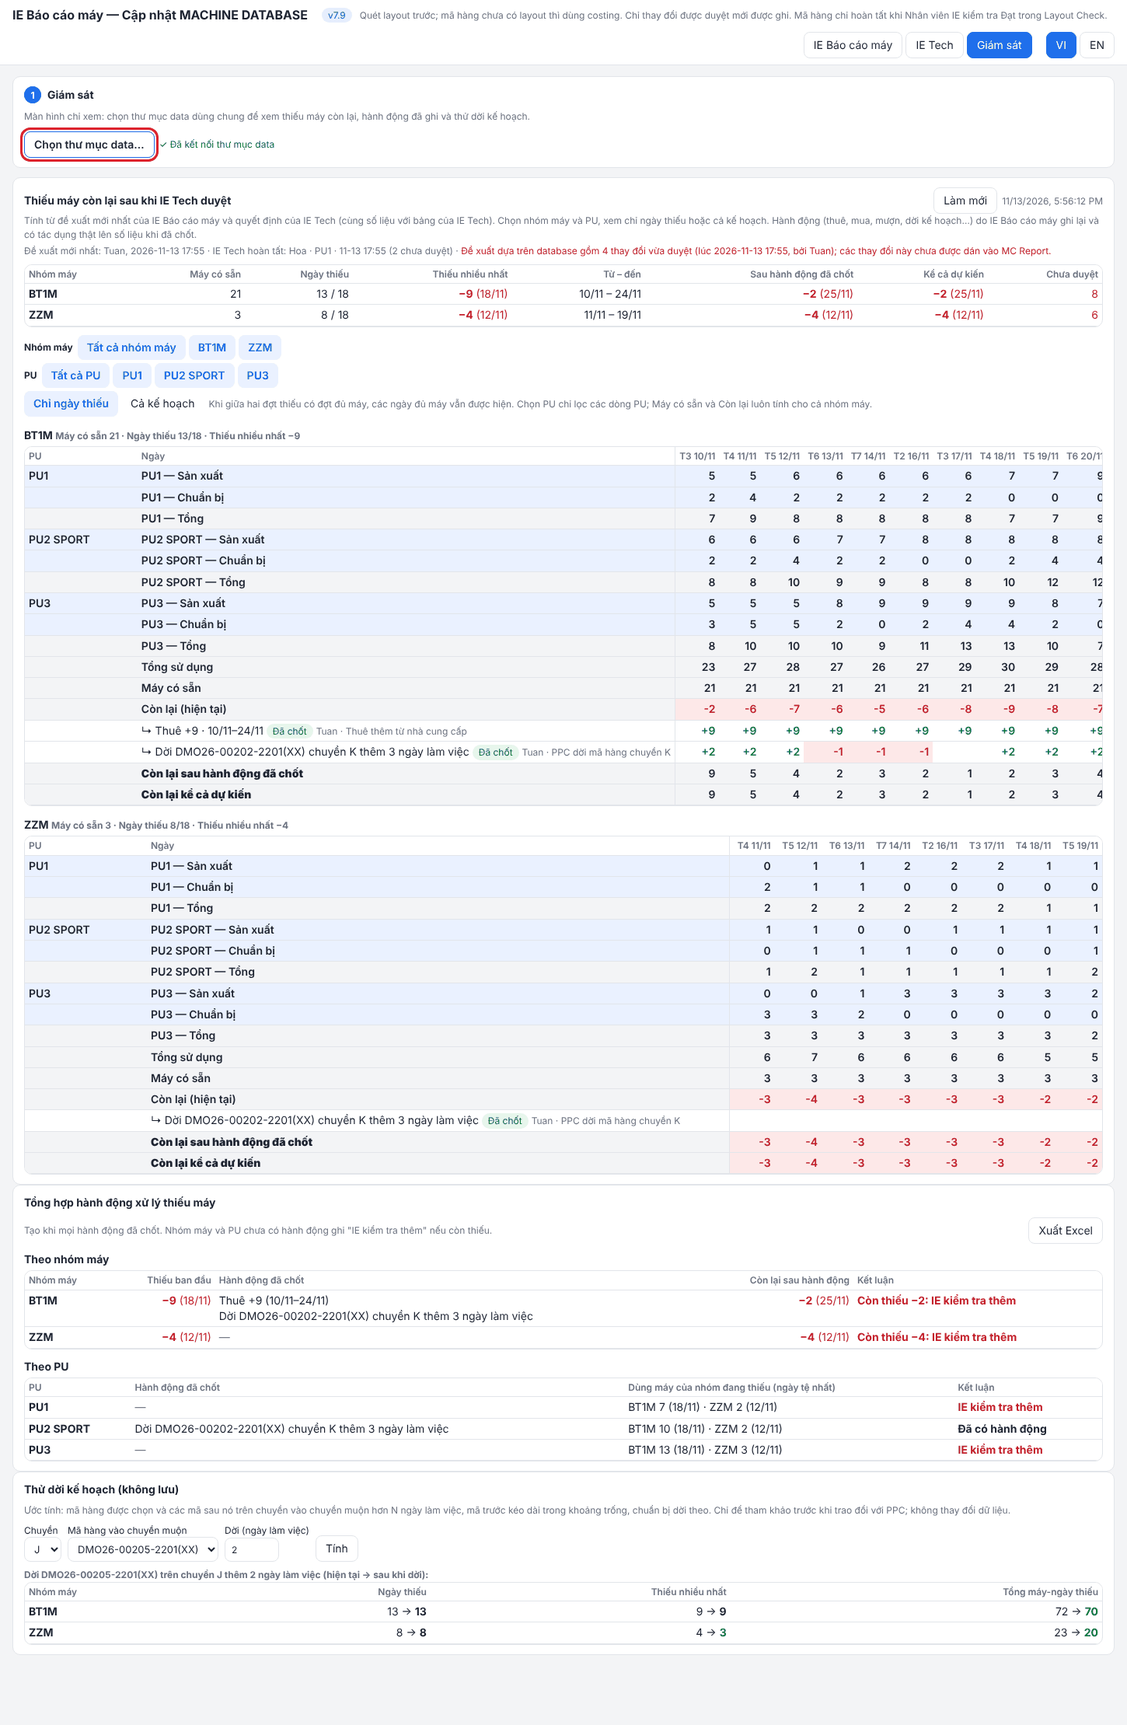
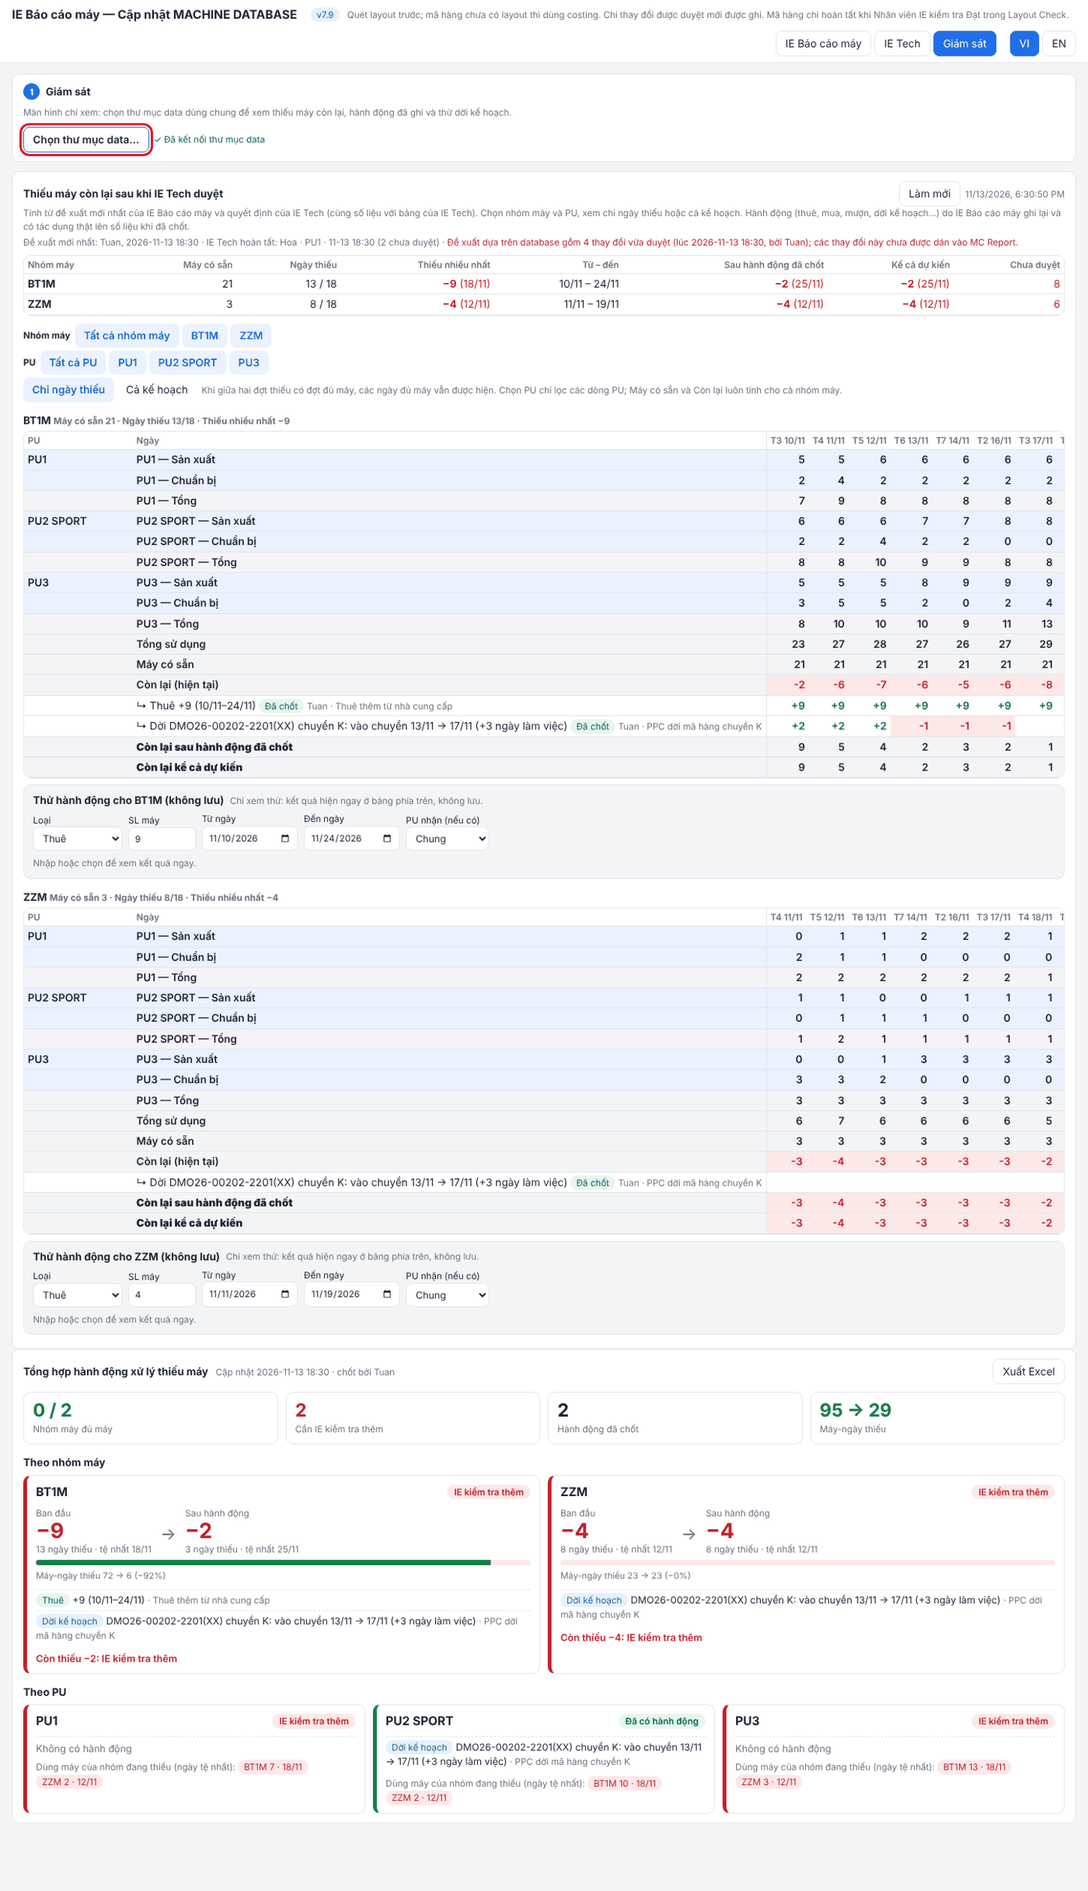
Manual: residual shortage section for per-group action panels, instant preview, date move of whole line, new summary card; retake screenshots
Claude-Session: https://claude.ai/code/session_01HSftGR9hCu1zeXPheTRhmb

diff --git a/manual/ie-bao-cao-may.html b/manual/ie-bao-cao-may.html
@@ -31,7 +31,7 @@
 <tr><td><b>Dữ liệu</b></td><td>Chọn MC Report, Master plan, thư mục layout, thư mục <code>data</code> của Layout Check, nhập họ tên. Có dấu ✓ khi đã nạp đủ.</td></tr>
 <tr><td><b>Cập nhật CSDL</b></td><td>Quét layout, duyệt thay đổi, <b>Lưu MACHINE DATABASE</b> (thanh lưu chỉ hiện ở tab này). Số trên tab = mục cần duyệt.</td></tr>
 <tr><td><b>Thiếu máy &amp; chuẩn bị</b></td><td>Xếp hạng nguy cơ thiếu máy, chi tiết theo ngày, gửi IE Tech duyệt, chốt báo cáo, xuất Excel.</td></tr>
-<tr><td><b>Thiếu máy còn lại</b></td><td>Máy còn thiếu sau khi IE Tech duyệt (bảng ngang, chọn nhóm máy/PU), hành động xử lý (thuê, mua, mượn, dời kế hoạch) có tác dụng thật lên số liệu, thẻ tổng hợp và thử dời kế hoạch (mục 6).</td></tr>
+<tr><td><b>Thiếu máy còn lại</b></td><td>Máy còn thiếu sau khi IE Tech duyệt (bảng ngang, chọn nhóm máy/PU), hành động xử lý (thuê, mua, mượn, dời kế hoạch) ghi ngay dưới bảng của từng nhóm máy thiếu, thấy kết quả tức thì, và thẻ tổng hợp (mục 6).</td></tr>
 <tr><td><b>Báo sai lệch</b></td><td>Thông báo của IE Tech. Số trên tab = thông báo chưa xử lý.</td></tr>
 <tr><td><b>Nhật ký</b></td><td>Lịch sử thao tác chuẩn bị máy theo loại máy và theo chuyền.</td></tr></table>
 <p>Góc trên bên phải có ba nút <b>vai trò</b> (<b>IE Báo cáo máy</b> / <b>IE Tech</b> / <b>Giám sát</b>) và nút ngôn ngữ <b>VI / EN</b>. Vai trò IE Tech chỉ thấy màn hình “Duyệt chuẩn bị” (mục 5); vai trò Giám sát chỉ xem “Thiếu máy còn lại” (mục 6).</p>
@@ -167,7 +167,7 @@
 <div class="note"><b>Quyết định được giữ sang tuần sau</b> khi trình tự mã hàng trên chuyền không đổi (cùng chuyền, mã trước, mã sau, nhóm máy), kể cả khi ngày thay đổi. Nếu số máy của mã sau trong CSDL thay đổi, dòng quay lại “Chờ duyệt”.</div>
 </section>
 
-<section id="resid"><h2>6. Thiếu máy còn lại, hành động và thử dời kế hoạch</h2>
+<section id="resid"><h2>6. Thiếu máy còn lại, hành động</h2>
 <p>Sau khi IE Tech duyệt, nhóm máy nào vẫn còn thiếu thì cần quyết định thuê, mua, mượn hoặc dời kế hoạch với PPC. Màn hình này tập hợp số liệu cho người quyết định (Giám sát) và cho IE Báo cáo máy ghi lại hành động.</p>
 <h3>6.1 Mở màn hình</h3>
 <ul>
@@ -187,27 +187,25 @@
 <tr><td><b>Sau hành động đã chốt</b></td><td>Thiếu còn lại nếu chỉ tính các hành động đã chốt.</td></tr>
 <tr><td><b>Kể cả dự kiến</b></td><td>Thiếu còn lại nếu tính cả hành động dự kiến.</td></tr>
 <tr><td><b>Chưa duyệt</b></td><td>Số dòng chuẩn bị IE Tech chưa duyệt (số liệu có thể còn đổi).</td></tr></table>
-<h3>6.3 Ghi hành động (do IE Báo cáo máy)</h3>
-<p>Biểu mẫu nằm dưới bảng (chỉ có ở IE Báo cáo máy; Giám sát chỉ xem). Nhập <b>Họ tên</b> ở tab Dữ liệu trước. Với thuê / mua / mượn, biểu mẫu tự điền số máy bằng mức thiếu lớn nhất và khoảng ngày thiếu của nhóm máy đang chọn.</p>
-<figure><a href="img/ibm-25-action-form.png"><img src="img/ibm-25-action-form.png" alt="Biểu mẫu hành động" loading="lazy"></a><figcaption>Thuê 9 máy cho BT1M, từ ngày thiếu đầu đến ngày thiếu cuối. Phần <b>Xem trước</b> ở dưới cho biết <b>thay đổi thực tế</b> theo từng ngày nếu chốt hành động này: “Còn lại (đã chốt hiện tại)”, “Thay đổi”, “Còn lại nếu chốt”.</figcaption></figure>
+<h3>6.3 Hành động: mỗi nhóm máy thiếu có khung riêng, kết quả hiện ngay</h3>
+<p>Dưới bảng của <b>mỗi nhóm máy còn thiếu</b> có một khung <b>Hành động cho &lt;nhóm máy&gt;</b>. Chỉ cần chọn loại và nhập số máy hoặc ngày, các dòng <b>“Xem thử”</b> trong bảng phía trên và dòng <b>“Kết quả ngay”</b> (thiếu nhiều nhất và số ngày thiếu, trước &rarr; sau) cập nhật tức thì, chưa lưu gì. Chưa nhập gì thì bảng không có dòng xem thử. Chỉ IE Báo cáo máy có nút <span class="btn">Thêm hành động</span> (nhập <b>Họ tên</b> ở tab Dữ liệu trước); Giám sát vẫn thử được nhưng không lưu được.</p>
+<figure><a href="img/ibm-25-action-form.png"><img src="img/ibm-25-action-form.png" alt="Khung hành động và xem thử" loading="lazy"></a><figcaption>BT1M: thuê 9 máy từ ngày thiếu đầu đến ngày thiếu cuối. Hai dòng “Xem thử: thay đổi” và “Xem thử: còn lại nếu chốt” hiện ngay; dòng “Kết quả ngay” ở cuối khung: thiếu nhiều nhất −9 &rarr; 0, ngày thiếu 13 &rarr; 0.</figcaption></figure>
 <table><tr><th>Loại</th><th>Tác dụng lên số liệu</th></tr>
-<tr><td><b>Thuê</b>, <b>Mua</b>, <b>Mượn</b></td><td>Cộng thêm số máy của nhóm máy đã chọn trong khoảng ngày đã nhập. Có thể ghi <b>PU nhận</b> (không bắt buộc) để thẻ tổng hợp hiện theo PU.</td></tr>
-<tr><td><b>Dời kế hoạch</b></td><td>Chọn <b>chuyền</b>, <b>mã hàng</b> và số <b>ngày làm việc</b>: mã hàng đó và các mã sau nó trên chuyền vào chuyền muộn hơn, mã trước kéo dài trong khoảng trống, chuẩn bị dời theo. Tác dụng thật lên <b>mọi nhóm máy</b> có chuyền đó.</td></tr>
+<tr><td><b>Thuê</b>, <b>Mua</b>, <b>Mượn</b></td><td>Cộng thêm số máy của nhóm máy trong khoảng ngày đã nhập (tự điền theo mức thiếu lớn nhất và khoảng ngày thiếu). Có thể ghi <b>PU nhận</b> (không bắt buộc) để thẻ tổng hợp hiện theo PU.</td></tr>
+<tr><td><b>Dời kế hoạch</b></td><td>Chọn <b>chuyền</b>, <b>mã hàng</b> và <b>ngày vào chuyền mới</b> (ngày chủ nhật tự chuyển sang ngày làm việc; khung ghi “+n ngày làm việc”). <b>Cả chuyền dời theo</b>: mã hàng đó và mọi mã sau nó vào chuyền muộn hơn; mã trước vẫn chạy tiếp; chuẩn bị dời theo. Tác dụng thật lên <b>mọi nhóm máy</b> có chuyền đó; kết quả ngay cho biết các nhóm máy khác bị thay đổi bao nhiêu.</td></tr>
 <tr><td><b>Khác</b></td><td>Ghi chú bắt buộc. Nếu nhập số máy (+ hoặc −) và khoảng ngày thì cộng/trừ máy như trên; nếu không thì chỉ ghi nhận.</td></tr></table>
-<figure><a href="img/ibm-26-delay-preview.png"><img src="img/ibm-26-delay-preview.png" alt="Xem trước dời kế hoạch" loading="lazy"></a><figcaption>Dời kế hoạch: phần xem trước liệt kê từng nhóm máy bị thay đổi, kèm số máy thay đổi theo ngày (xanh = thêm máy, đỏ = thiếu thêm) và tóm tắt “thiếu nhiều nhất a → b, ngày thiếu a → b”.</figcaption></figure>
+<figure><a href="img/ibm-26-delay-preview.png"><img src="img/ibm-26-delay-preview.png" alt="Dời kế hoạch ngay trong khung hành động" loading="lazy"></a><figcaption>Dời kế hoạch nằm trong cùng khung: chọn chuyền, mã hàng, ngày vào chuyền mới. Các dòng xem thử và “Kết quả ngay” cho thấy tác dụng thật lên bảng.</figcaption></figure>
+<div class="warn"><b>Dời kế hoạch có thể không giải quyết được thiếu máy</b> (ví dụ máy dùng nhiều nhất rơi vào ngày khác, hoặc số ngày thiếu tăng vì mã trước chạy lâu hơn). Hãy đọc dòng “Kết quả ngay” (thiếu nhiều nhất và số ngày thiếu) trước khi đề nghị PPC.</div>
 <ul>
 <li><b>Dự kiến</b> = chưa chắc chắn; <b>Đã chốt</b> = đã có máy / PPC đã đồng ý dời. Hai trạng thái được tính ở hai dòng riêng (“sau hành động đã chốt” và “kể cả dự kiến”).</li>
-<li>Mỗi hành động là một hàng trong bảng ngang, hiện <b>số thay đổi thực tế từng ngày</b> của riêng hành động đó. Nút <span class="btn">✎</span> sửa, <span class="btn">✔</span> chốt (Dự kiến &rarr; Đã chốt), <span class="btn">✖</span> hủy (hàng bị gạch, không còn tác dụng).</li>
+<li>Mỗi hành động là một hàng trong bảng ngang, hiện <b>số thay đổi thực tế từng ngày</b>. Nút <span class="btn">✎</span> sửa, <span class="btn">✔</span> chốt (Dự kiến &rarr; Đã chốt), <span class="btn">✖</span> hủy (hàng bị gạch, không còn tác dụng).</li>
+<li><b>Dời kế hoạch đã vào kế hoạch mới:</b> khi MC Report / Master plan mới đã cho mã hàng vào chuyền đúng hoặc sau ngày mới, hành động được gắn nhãn <b>“Đã vào kế hoạch”</b> và <b>không tính nữa</b> (tránh dời hai lần).</li>
 <li>Mỗi lần thay đổi ghi thành một file trong <code>data\prep\actions</code>, đồng thời hiện ở tab <b>Nhật ký</b> (loại “Hành động thiếu máy”).</li></ul>
 <h3>6.4 Thẻ tổng hợp hành động</h3>
-<p>Khi <b>mọi hành động đã được chốt</b> (không còn hành động Dự kiến) và có ít nhất một hành động, màn hình tự tạo thẻ <b>Tổng hợp hành động xử lý thiếu máy</b> gồm hai bảng: <b>theo nhóm máy</b> và <b>theo PU</b>. Nhóm máy hoặc PU không có hành động nào mà vẫn còn thiếu được ghi <b>“IE kiểm tra thêm”</b>; nhóm máy sau hành động vẫn thiếu cũng ghi “Còn thiếu −x: IE kiểm tra thêm”. Nút <span class="btn">Xuất Excel</span> lưu thẻ thành file.</p>
-<figure><a href="img/ibm-27-actions-and-card.png"><img src="img/ibm-27-actions-and-card.png" alt="Bảng ngang có hành động và thẻ tổng hợp" loading="lazy"></a><figcaption>Bảng ngang BT1M có hai hàng hành động (Thuê +9 và Dời kế hoạch) và hai dòng “Còn lại sau hành động”; bên dưới là thẻ tổng hợp theo nhóm máy và theo PU.</figcaption></figure>
-<h3>6.5 Thử dời kế hoạch (không lưu)</h3>
-<p>Dành cho người chỉ xem (Giám sát) hoặc để thử nhanh: chọn <b>Chuyền</b>, <b>Mã hàng vào chuyền muộn</b> và số <b>ngày làm việc</b> rồi bấm <span class="btn">Tính</span>. Kết quả theo từng nhóm máy: số ngày thiếu, thiếu nhiều nhất và tổng máy-ngày thiếu, dạng “hiện tại → sau khi dời” (xanh = tốt hơn, đỏ = tệ hơn). Không lưu gì; muốn ghi lại thì tạo hành động “Dời kế hoạch”.</p>
-<figure><a href="img/ibm-29-whatif.png"><img src="img/ibm-29-whatif.png" alt="Thử dời kế hoạch" loading="lazy"></a><figcaption>Ví dụ: dời một mã hàng của chuyền J thêm 2 ngày làm việc.</figcaption></figure>
-<div class="warn"><b>Chỉ là ước tính.</b> Dời một chuyền có thể <b>không giảm</b> thiếu máy (ví dụ máy dùng nhiều nhất ở ngày khác), thậm chí tăng vì mã trước chạy lâu hơn; vì vậy nên xem trước khi đề nghị PPC.</div>
-<h3>6.6 Vai trò Giám sát</h3>
-<figure><a href="img/ibm-28-supervisor.png"><img src="img/ibm-28-supervisor.png" alt="Vai trò Giám sát" loading="lazy"></a><figcaption>Vai trò <b>Giám sát</b>: cùng bảng ngang, thẻ tổng hợp và thử dời kế hoạch, nhưng không có biểu mẫu thêm hoặc sửa hành động.</figcaption></figure>
+<p>Khi <b>mọi hành động đã được chốt</b> (không còn hành động Dự kiến) và có ít nhất một hành động, màn hình tự tạo thẻ <b>Tổng hợp hành động xử lý thiếu máy</b>: bốn ô chỉ số (nhóm máy đủ máy, nhóm cần IE kiểm tra thêm, số hành động đã chốt, máy-ngày thiếu trước &rarr; sau), một thẻ cho <b>mỗi nhóm máy</b> (thiếu trước &rarr; sau, thanh tiến độ, danh sách hành động) và một thẻ cho <b>mỗi PU</b>. Nhóm máy hoặc PU không có hành động mà vẫn còn thiếu ghi <b>“IE kiểm tra thêm”</b>; nhóm máy sau hành động vẫn thiếu ghi “Còn thiếu −x: IE kiểm tra thêm”. Nút <span class="btn">Xuất Excel</span> lưu thẻ thành file.</p>
+<figure><a href="img/ibm-27-actions-and-card.png"><img src="img/ibm-27-actions-and-card.png" alt="Thẻ tổng hợp hành động" loading="lazy"></a><figcaption>Thẻ tổng hợp: BT1M giảm từ −9 xuống −2 nhờ Thuê +9 và Dời kế hoạch nhưng vẫn cần IE kiểm tra thêm; ZZM chưa đủ máy.</figcaption></figure>
+<h3>6.5 Vai trò Giám sát</h3>
+<figure><a href="img/ibm-28-supervisor.png"><img src="img/ibm-28-supervisor.png" alt="Vai trò Giám sát" loading="lazy"></a><figcaption>Vai trò <b>Giám sát</b>: cùng bảng ngang, khung hành động (để thử, xem kết quả ngay) và thẻ tổng hợp, nhưng không lưu được hành động.</figcaption></figure>
 </section>
 
 <section id="chot"><h2>7. Chốt báo cáo, xuất Excel</h2>
@@ -251,7 +249,7 @@
 <tr><td>So sánh layout – CSDL</td><td><b>Theo nhóm máy</b> (nhóm lấy từ sheet MACHINE GROUP): tổng số máy mỗi nhóm bằng nhau là khớp; khác mã máy trong cùng nhóm không tạo đề xuất và không làm mất “Đã kiểm tra”. Mã máy chưa có nhóm được so sánh riêng.</td></tr>
 <tr><td>Dữ liệu CSDL</td><td>Chỉ dùng các dòng có <b>ngày mới nhất</b> của mỗi mã hàng.</td></tr>
 <tr><td>Quyết định mới nhất có hiệu lực</td><td>Công cụ đọc lại đúng file và sheet của bản ghi Layout Check: máy trong file = bản ghi và CSDL = bản ghi → “Đã kiểm tra”; file đã được sửa sau lần kiểm tra → “Cần duyệt”, IE kiểm tra lại; file khác file IE đã kiểm tra → “Lỗi dữ liệu: File layout khác file IE đã kiểm tra”.</td></tr>
-<tr><td>Thiếu máy còn lại</td><td>Tính bằng đúng cách tính của bảng IE Tech (đề xuất mới nhất của từng nhóm máy + quyết định IE Tech). Hành động Thuê/Mua/Mượn (và Khác có nhập số máy) cộng máy theo ngày, Dời kế hoạch dời mã hàng và các mã sau nó trên chuyền (Đã chốt và Dự kiến tính riêng); chỉ IE Báo cáo máy ghi hành động, Giám sát chỉ xem. Thẻ tổng hợp tạo khi mọi hành động đã chốt.</td></tr>
+<tr><td>Thiếu máy còn lại</td><td>Tính bằng đúng cách tính của bảng IE Tech (đề xuất mới nhất của từng nhóm máy + quyết định IE Tech). Hành động Thuê/Mua/Mượn (và Khác có nhập số máy) cộng máy theo ngày, Dời kế hoạch dời cả chuyền từ mã hàng đã chọn (Đã chốt và Dự kiến tính riêng; dời đã vào kế hoạch mới thì không tính nữa); mỗi nhóm máy thiếu có khung hành động riêng với kết quả hiện ngay; chỉ IE Báo cáo máy ghi hành động, Giám sát chỉ thử. Thẻ tổng hợp tạo khi mọi hành động đã chốt.</td></tr>
 <tr><td>Số liệu ngay sau khi lưu</td><td>Báo cáo thiếu máy tính cả các thay đổi vừa duyệt (có nhãn), dù MC Report chưa cập nhật.</td></tr>
 <tr><td>Mã băm</td><td><b>File Hash</b> (SHA-256 cả file): giống lần trước thì bỏ qua. <b>Content Hash</b> (chỉ máy và số lượng): đổi định dạng, ghi chú, tên sheet, ô mã hàng không tính là thay đổi.</td></tr></table>
 </section>

diff --git a/tools/manual_shots/shots_ibm.py b/tools/manual_shots/shots_ibm.py
@@ -82,22 +82,20 @@ with sync_playwright() as p:
     for tab, name in [('notice', 'ibm-20-notices'), ('activity', 'ibm-21-activity')]:
         el = pg.query_selector(f'#mainTabs [data-tab="{tab}"]')
         if el: el.click(); pg.wait_for_timeout(1200); shot(pg, name, full=True)
-    # 5b. residual shortage after IE Tech's review: horizontal tables, selectors, actions with preview, summary card, read-only Supervisor role
+    # 5b. residual shortage after IE Tech's review: horizontal tables, selectors, one action panel per short group with instant preview, summary card, read-only Supervisor role
     pg.click('#mainTabs [data-tab="resid"]'); pg.wait_for_timeout(2000)
     shot(pg, 'ibm-24-residual', full=True, hl=['#rsC [data-rs-view]', '#rsC [data-rs-cg]', '#rsC [data-rs-cpu]'])
-    pg.fill('#rsC [data-f="note"]', 'Thuê thêm từ nhà cung cấp'); pg.wait_for_timeout(300)
-    shot(pg, 'ibm-25-action-form', sel='#rsCB', hl=['#rsC [data-f="type"]', '#rsC [data-f="qty"]', '#rsC [data-f="from"]', '#rsC [data-f="to"]', '#rsC [data-f="status"]', '#rsC [data-rs-save]'])
-    pg.click('#rsC [data-rs-save]'); pg.wait_for_timeout(1200); pg.click('#rsC tr[data-rs-r="act"] [data-rs-conf]'); pg.wait_for_timeout(900)
-    pg.select_option('#rsC [data-f="type"]', 'DELAY'); pg.wait_for_timeout(300); pg.select_option('#rsC [data-f="line"]', 'K'); pg.wait_for_timeout(300)
-    sty = pg.evaluate("[...document.querySelectorAll('#rsC [data-f=style] option')].map(o=>o.value)"); pg.select_option('#rsC [data-f="style"]', sty[1] if len(sty) > 1 else sty[0])
-    pg.fill('#rsC [data-f="n"]', '3'); pg.dispatch_event('#rsC [data-f="n"]', 'input'); pg.fill('#rsC [data-f="note"]', 'PPC dời mã hàng chuyền K'); pg.wait_for_timeout(500)
-    shot(pg, 'ibm-26-delay-preview', sel='#rsCB', hl=['#rsC [data-f="type"]', '#rsC [data-f="line"]', '#rsC [data-f="style"]', '#rsC [data-f="n"]', '#rsC [data-rs-prev]'])
-    pg.select_option('#rsC [data-f="status"]', 'CONFIRMED'); pg.click('#rsC [data-rs-save]'); pg.wait_for_timeout(1200)
-    shot(pg, 'ibm-27-actions-and-card', full=True)
-    pg.select_option('#rsC [data-wi=line]', 'J'); pg.wait_for_timeout(300)
-    stw = pg.evaluate("[...document.querySelectorAll('#rsC [data-wi=style] option')].map(o=>o.value)"); pg.select_option('#rsC [data-wi=style]', stw[1] if len(stw) > 1 else stw[0])
-    pg.fill('#rsC [data-wi=n]', '2'); pg.dispatch_event('#rsC [data-wi=n]', 'change'); pg.wait_for_timeout(300); pg.click('#rsC [data-rs-wigo]'); pg.wait_for_timeout(600)
-    shot(pg, 'ibm-29-whatif', sel='#rsCC')
+    P = '#rsC [data-rs-panel="BT1M"] '
+    pg.fill(P + '[data-f="qty"]', '9'); pg.dispatch_event(P + '[data-f="qty"]', 'input'); pg.fill(P + '[data-f="note"]', 'Thuê thêm từ nhà cung cấp'); pg.wait_for_timeout(500)
+    shot(pg, 'ibm-25-action-form', sel='#rsC [data-rs-blk="BT1M"]', hl=[P + '[data-f="type"]', P + '[data-f="qty"]', P + '[data-f="from"]', P + '[data-f="to"]', P + '[data-f="status"]', P + '[data-rs-save]'])
+    pg.click(P + '[data-rs-save]'); pg.wait_for_timeout(1200); pg.click('#rsC tr[data-rs-r="act"] [data-rs-conf]'); pg.wait_for_timeout(900)
+    pg.select_option(P + '[data-f="type"]', 'DELAY'); pg.wait_for_timeout(300); pg.select_option(P + '[data-f="line"]', 'K'); pg.wait_for_timeout(300)
+    sty = pg.evaluate("[...document.querySelectorAll('#rsC [data-rs-panel=BT1M] [data-f=style] option')].map(o=>o.value)"); pg.select_option(P + '[data-f="style"]', sty[1] if len(sty) > 1 else sty[0]); pg.wait_for_timeout(300)
+    d0 = pg.input_value(P + '[data-f="date"]'); d1 = (dt.date.fromisoformat(d0) + dt.timedelta(days=3)).isoformat(); pg.fill(P + '[data-f="date"]', d1); pg.dispatch_event(P + '[data-f="date"]', 'input')
+    pg.fill(P + '[data-f="note"]', 'PPC dời mã hàng chuyền K'); pg.wait_for_timeout(500)
+    shot(pg, 'ibm-26-delay-preview', sel='#rsC [data-rs-blk="BT1M"]', hl=[P + '[data-f="type"]', P + '[data-f="line"]', P + '[data-f="style"]', P + '[data-f="date"]', P + '[data-rs-res]'])
+    pg.select_option(P + '[data-f="status"]', 'CONFIRMED'); pg.click(P + '[data-rs-save]'); pg.wait_for_timeout(1200)
+    shot(pg, 'ibm-27-actions-and-card', sel='#rsCS')
     pg.click('#roleSeg [data-role="sup"]'); pg.wait_for_timeout(400); pg.click('#sConnect'); pg.wait_for_timeout(2000)
     shot(pg, 'ibm-28-supervisor', full=True, hl='#sConnect')
     # 6. "keep current data" can be confirmed (fresh session, same demo data)
